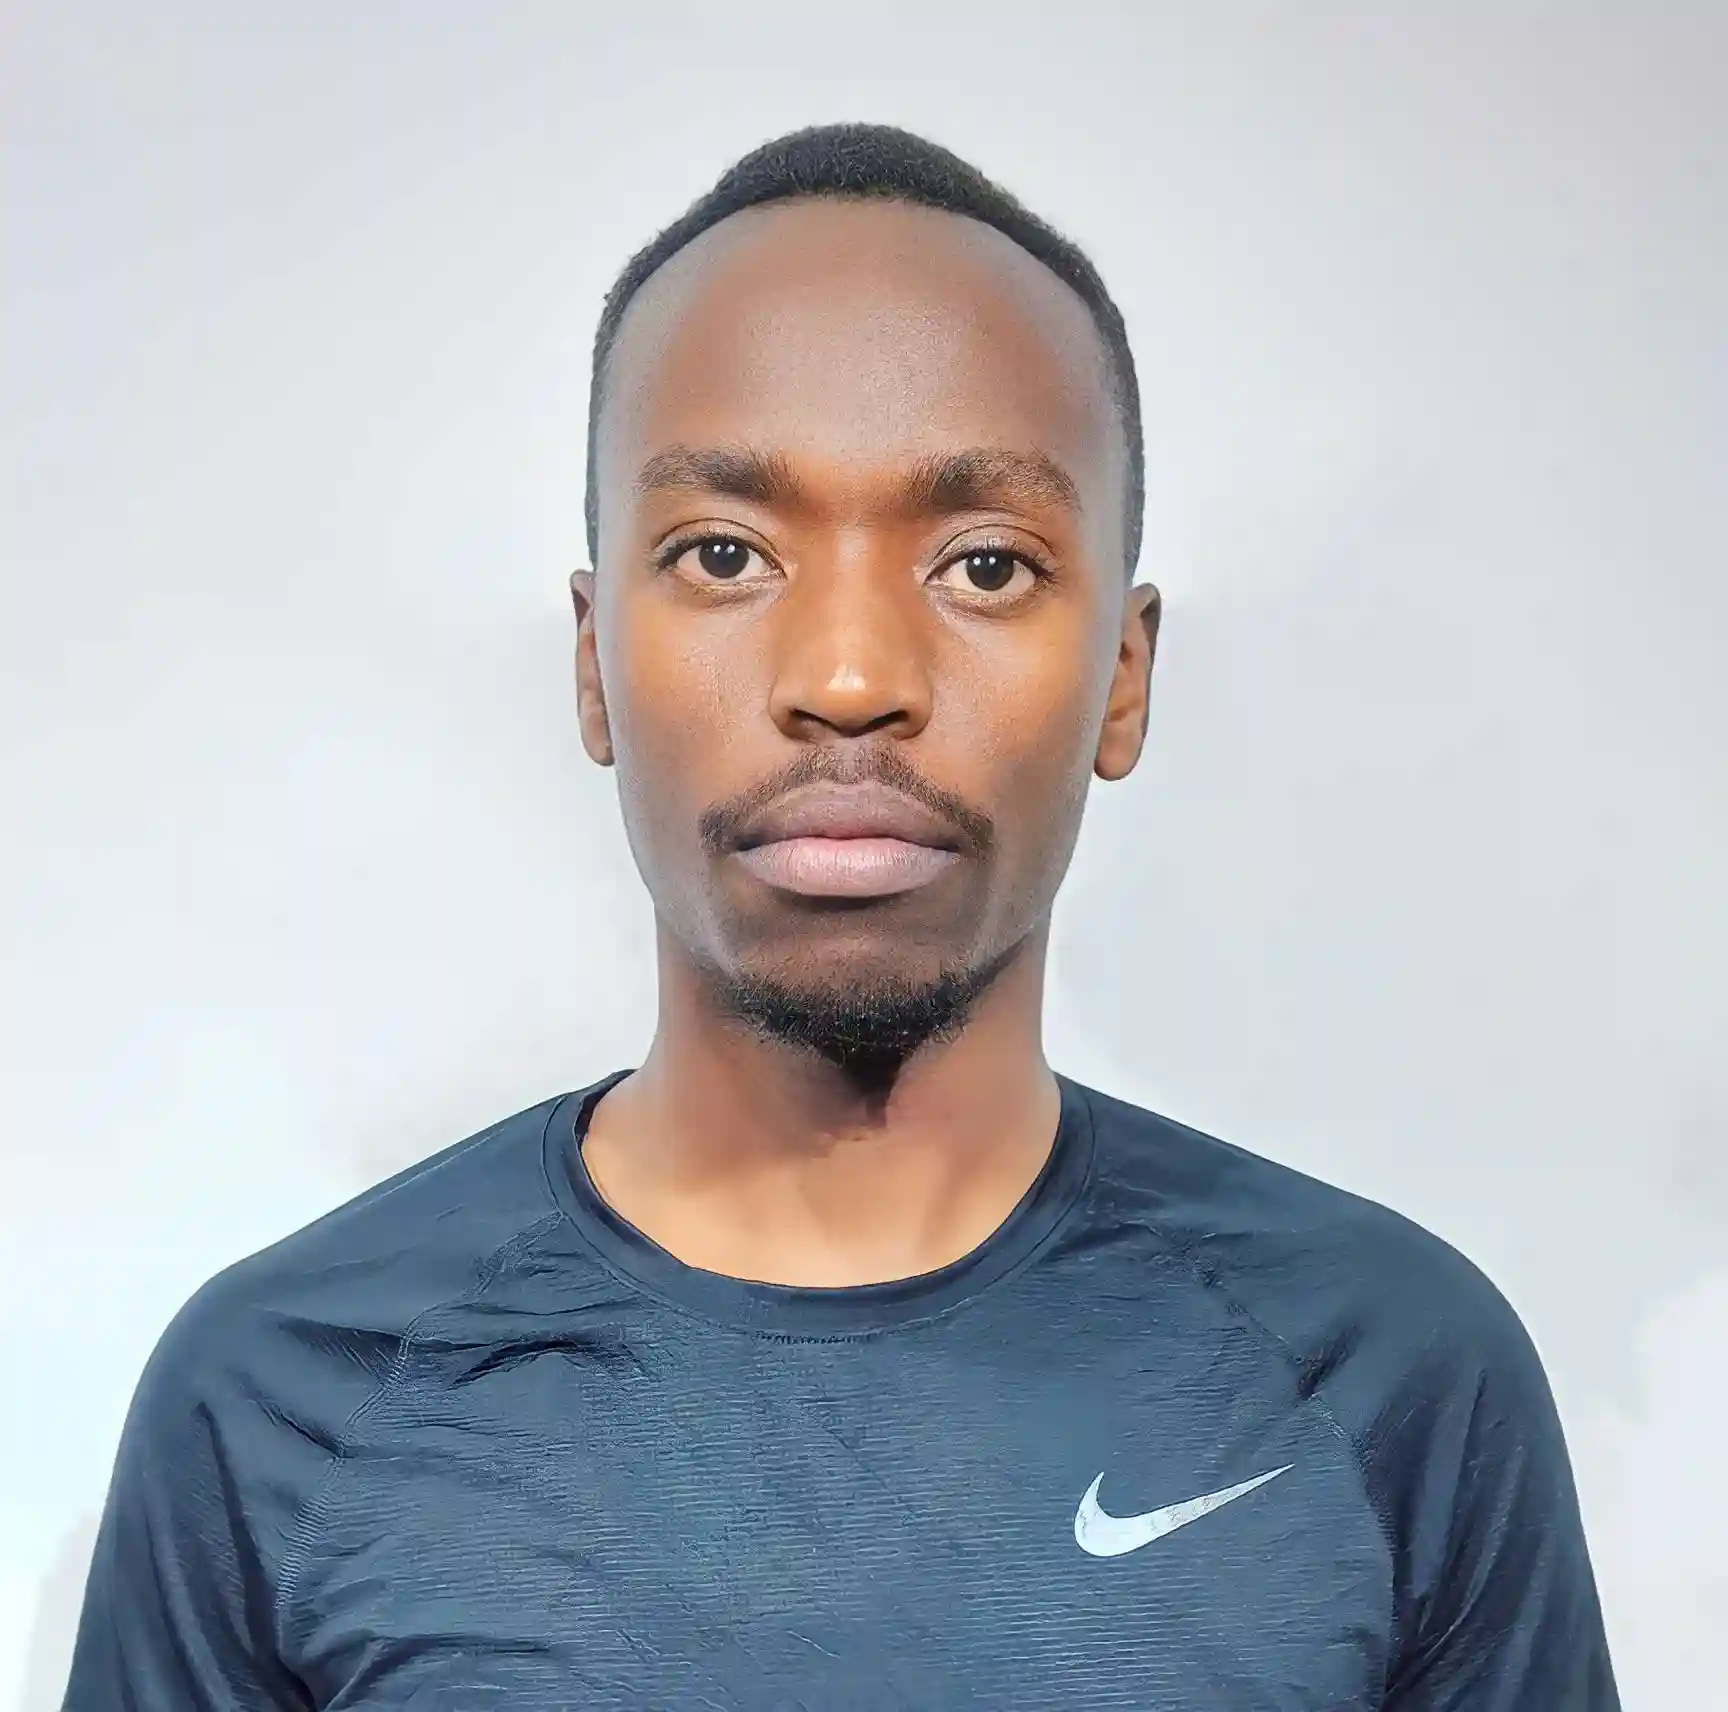
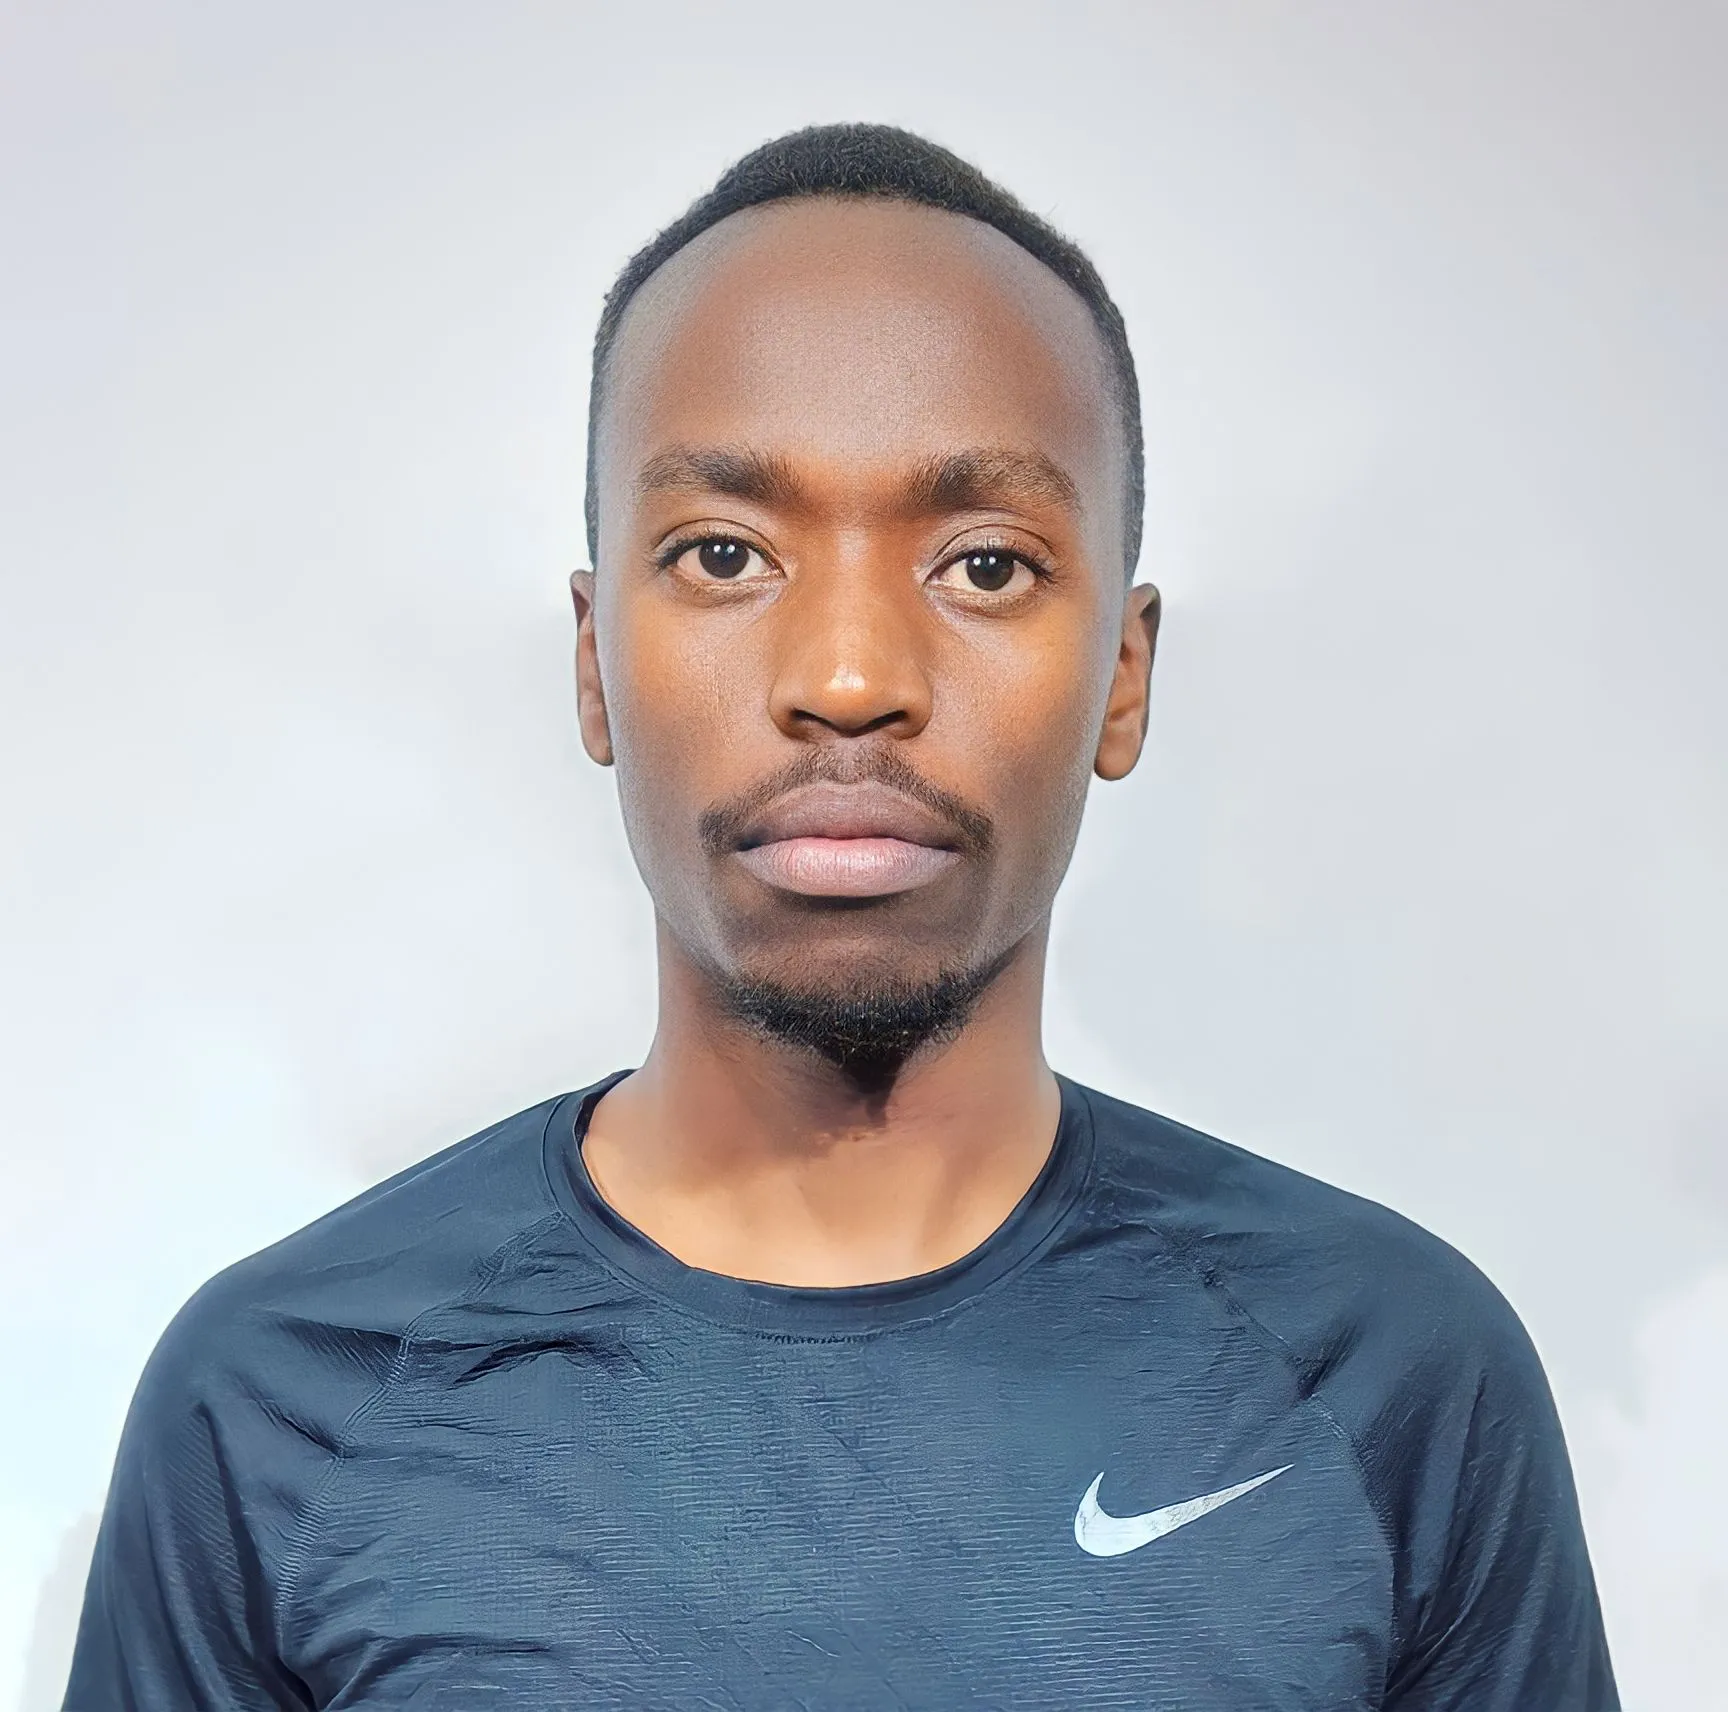
feat: add responsive passport images

diff --git a/index.html b/index.html
@@ -14,7 +14,9 @@
     <link rel="canonical" href="https://gisioraelvis.github.io">
 
     <!-- Preload some assets -->
-    <link rel="preload" href="assets/gisioraelvis-passport.webp" as="image" fetchpriority="high">
+    <link rel="preload" href="assets/gisioraelvis-passport-400w.webp" as="image" fetchpriority="high" imagesrcset="assets/gisioraelvis-passport-200w.webp 200w, 
+          assets/gisioraelvis-passport-400w.webp 400w, 
+          assets/gisioraelvis-passport-600w.webp 600w" imagesizes="(max-width: 768px) 200px, 400px">
     <link rel="preload" href="styles/main.css" as="style">
 
     <!-- Favicon -->
@@ -118,8 +120,12 @@
                 </div>
                 <div class="hero-image">
                     <div class="profile-image">
-                        <img src="assets/gisioraelvis-passport.webp"
-                            alt="Elvis Gisiora - Software Engineer portrait photo" width="400" height="400">
+                        <img srcset="assets/gisioraelvis-passport-200w.webp 200w,
+                                     assets/gisioraelvis-passport-400w.webp 400w,
+                                     assets/gisioraelvis-passport-600w.webp 600w"
+                            sizes="(max-width: 768px) 200px, 400px" src="assets/gisioraelvis-passport-400w.webp"
+                            alt="Elvis Gisiora - Software Engineer portrait photo" width="400" height="400"
+                            fetchpriority="high">
                     </div>
                     <div class="floating-badges" aria-hidden="true">
                         <!-- Core/Foundational Technologies (closest to image) -->
